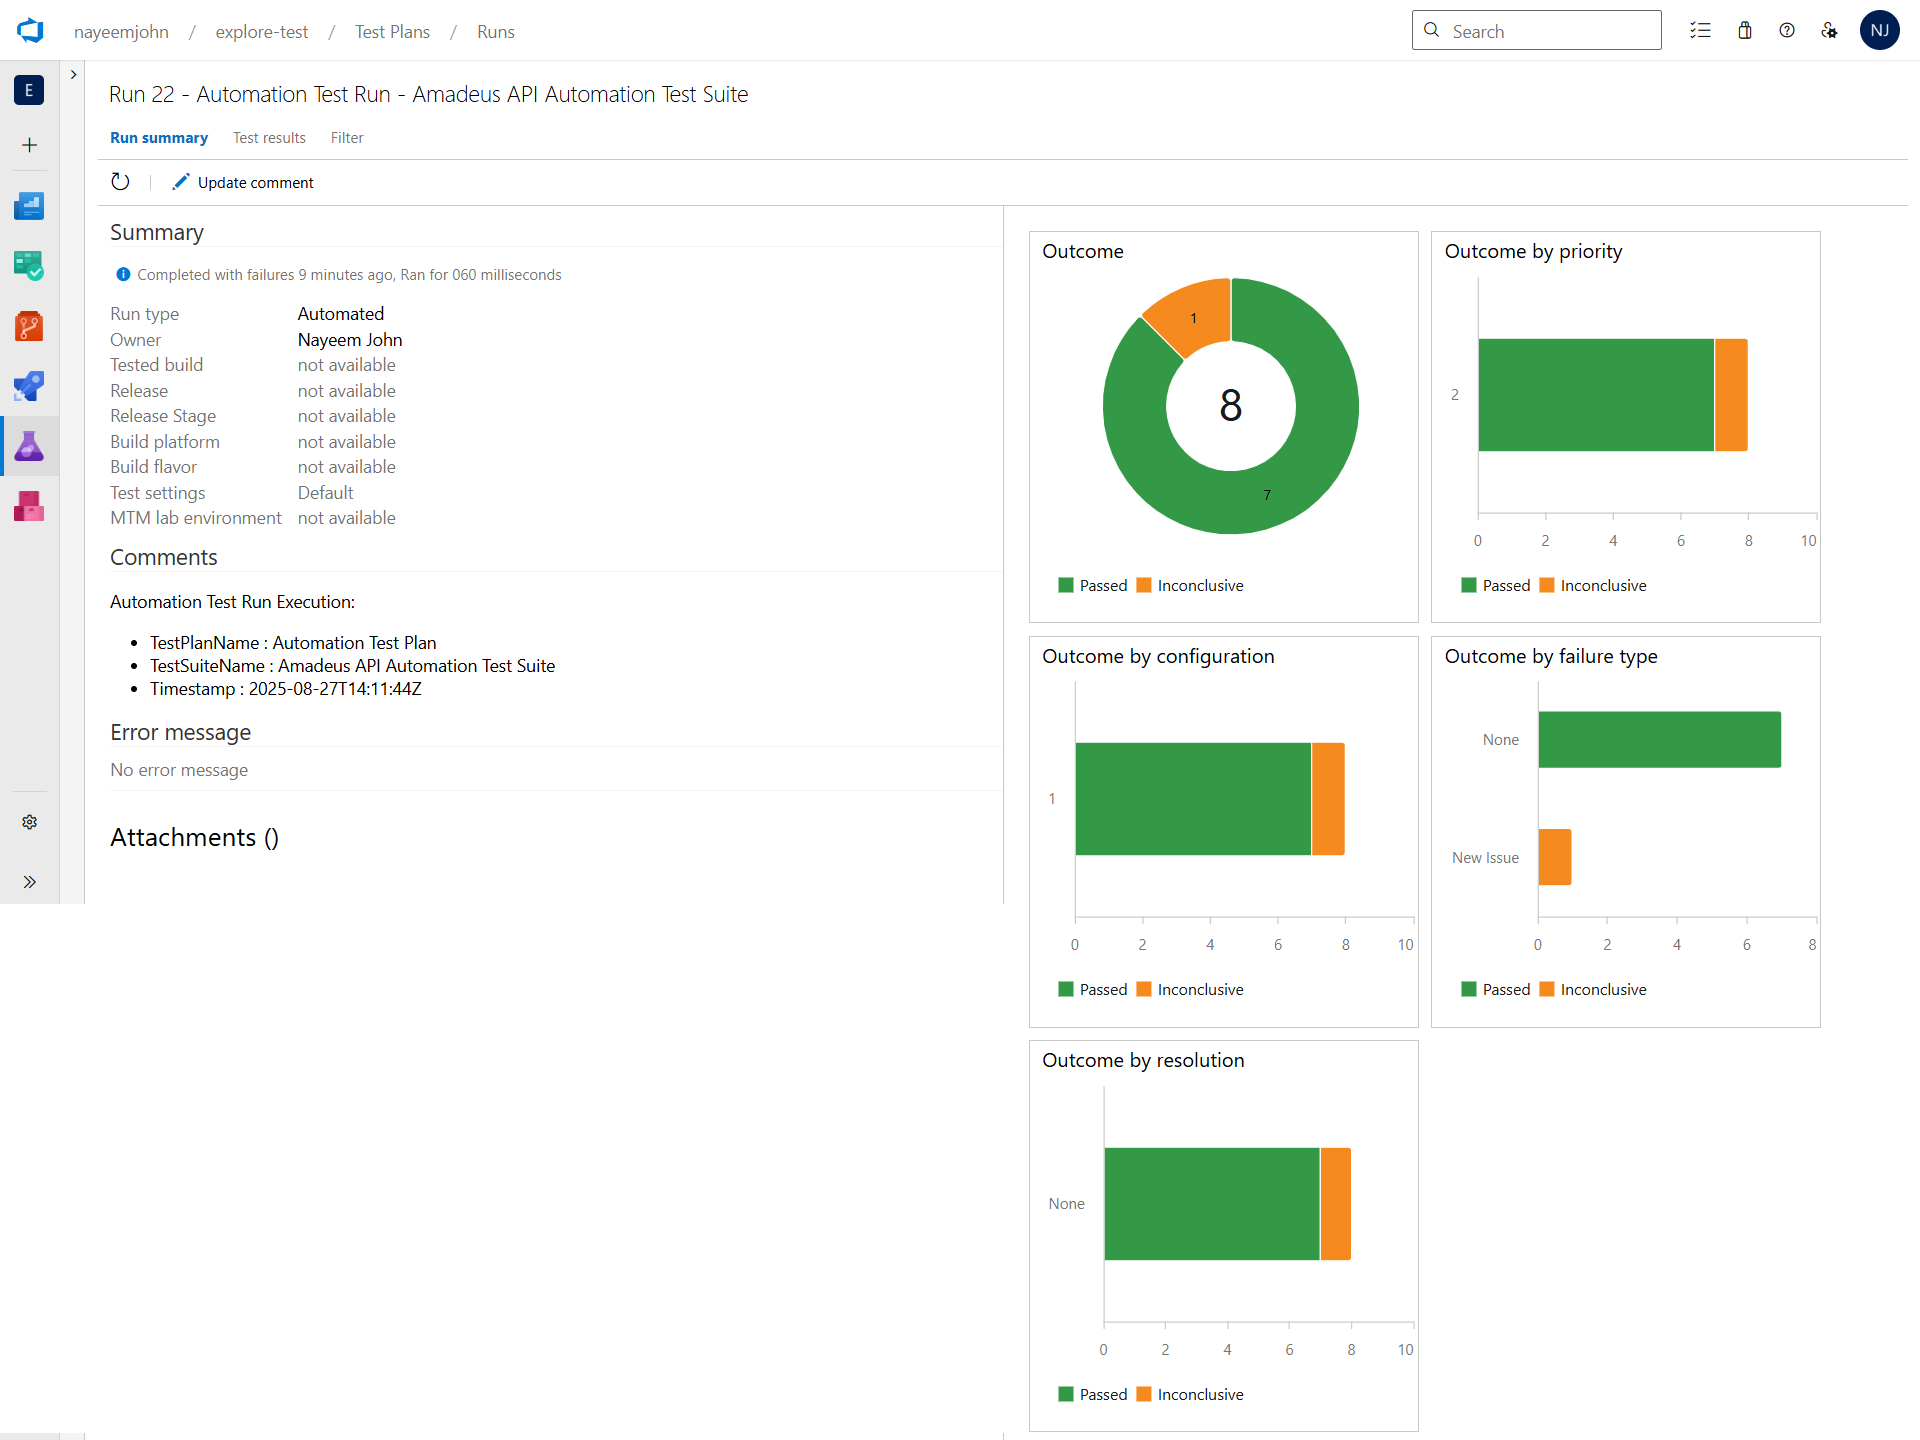
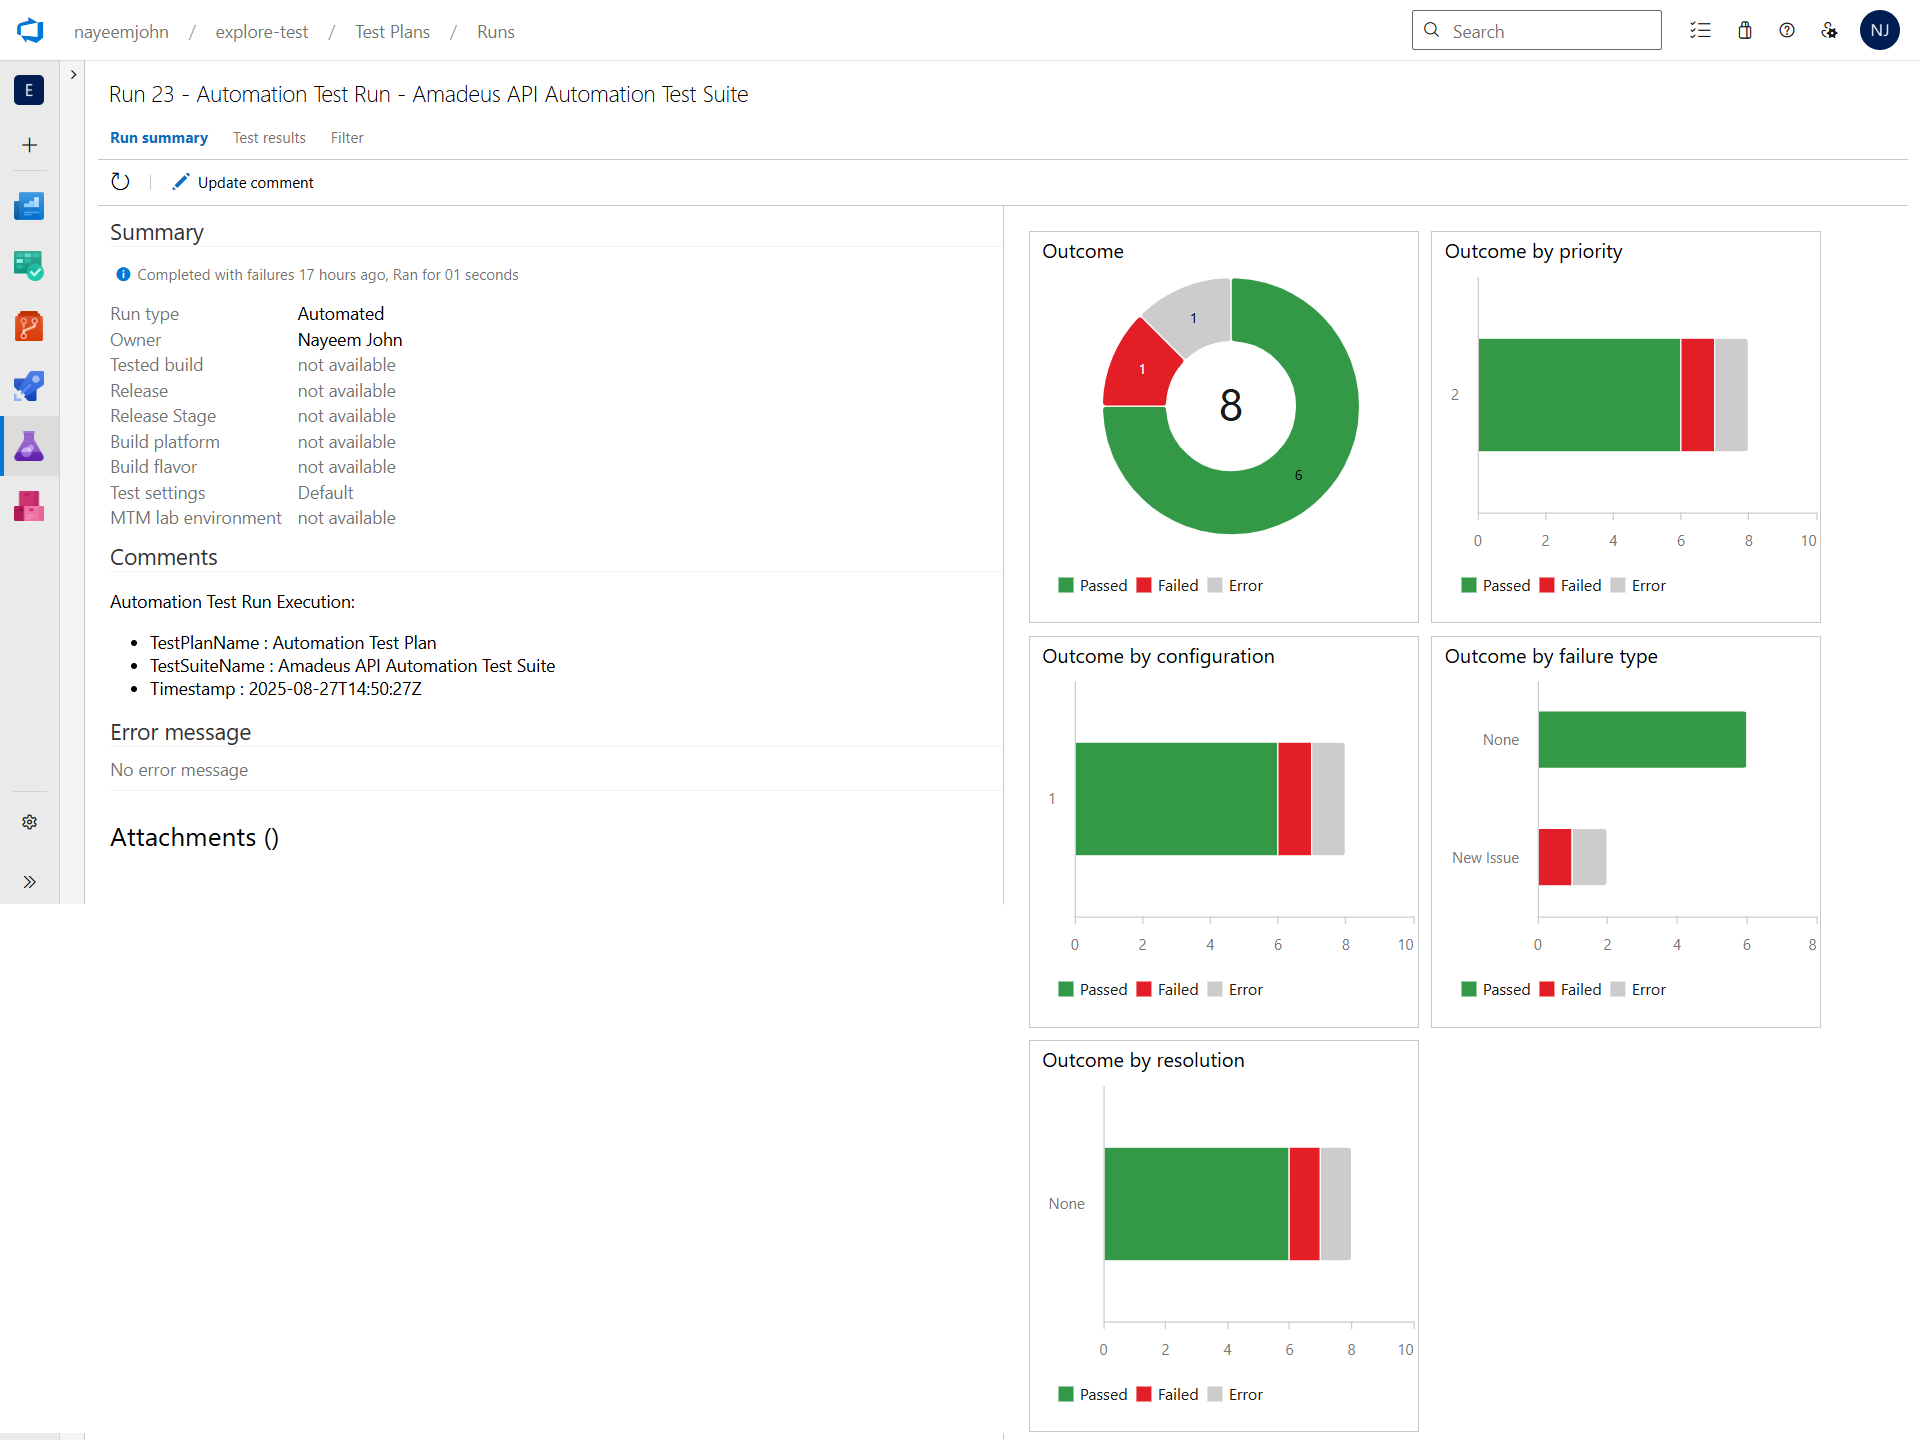
Update logic of test overall outcome

diff --git a/src/test/java/testUtils/TestResultsRecords.java b/src/test/java/testUtils/TestResultsRecords.java
@@ -11,8 +11,6 @@ package testUtils;
 import java.util.ArrayList;
 import java.util.List;
 import java.util.Map;
-import java.util.Set;
-import java.util.stream.Collectors;
 
 /** Java records */
 public class TestResultsRecords {
@@ -50,16 +48,12 @@ public class TestResultsRecords {
       Long newDuration = durationInMs + iterationResult.durationInMs();
 
       // Determine overall outcome
-      Set<String> outcomes =
-          iterationResults.stream().map(TestIterationResult::outcome).collect(Collectors.toSet());
+      String currentOutcome = outcome;
+      String newIterationOutcome = iterationResult.outcome();
 
-      String newOutcome = "Inconclusive";
-      if (outcomes.size() == 1) {
-        String only = outcomes.iterator().next();
-        if (only.equals("Passed") || only.equals("Failed") || only.equals("Error")) {
-          newOutcome = only;
-        }
-      }
+      // If current and new outcomes are different, set to Inconclusive
+      String newOutcome =
+          currentOutcome.equals(newIterationOutcome) ? currentOutcome : "Inconclusive";
 
       String newErrorMessage = errorMessage;
       if (!iterationResult.errorMessage().isEmpty()) {
